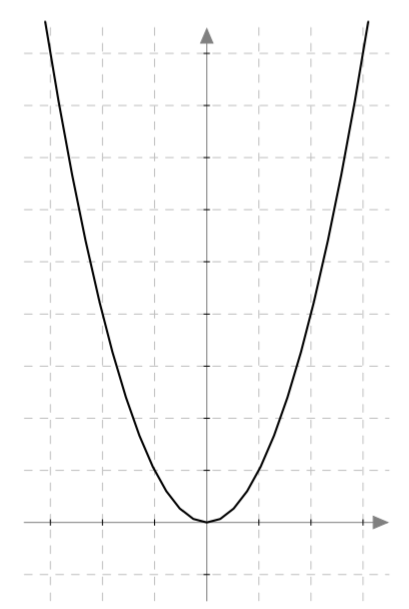
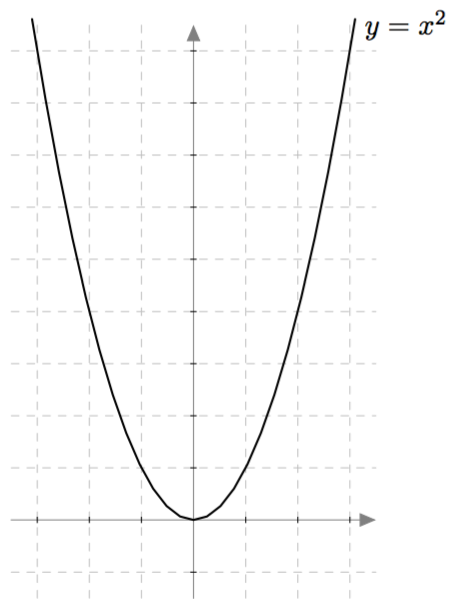
LIsää

diff --git a/kurssit/maa2/luku2/index.html b/kurssit/maa2/luku2/index.html
@@ -67,6 +67,29 @@ topnav: maa2
             <img src="/kurssit/maa2/kuvat/PFk1.png" max-width: 100%; width: auto; height: auto;/> 
             </p>
 
+            <div class="tehtavat">
+                <div class="tehtava" id="pf1-ex">
+
+                    <header>
+                        <h1>
+                            <a data-toggle="collapse" class="collapsed" data-target="#pf1">
+                                Toisen asteen potenssifunktio
+                            </a>
+                        </h1>
+                    </header>
+                    <div id="pf1" class="collapse">
+                        <p> Päättele yllä olevan kuvaajan avulla vastaukset seuraaviin kysymyksiin:
+                        <ol class="a">
+                            <li> Mikä on funktion $f(x) = x^2$ arvo kohdassa $x = -1$?</li>
+                            <li> Missä kohdissa funktio $f(x) = x^2$ saa arvon $4$?</li>
+                            <li> Mikä on funktion $f(x) = x^2$ pienin arvo?</li>
+                            <li> Kuinka monta ratkaisua on yhtälöllä $x^2 = 6$?</li>
+                        </ol>
+                        </p>
+                    </div>
+                </div>
+            </div>
+
         </div>
     </section>
 
